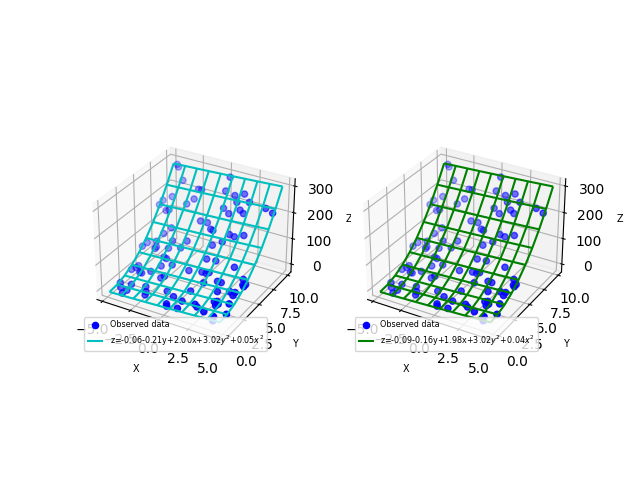
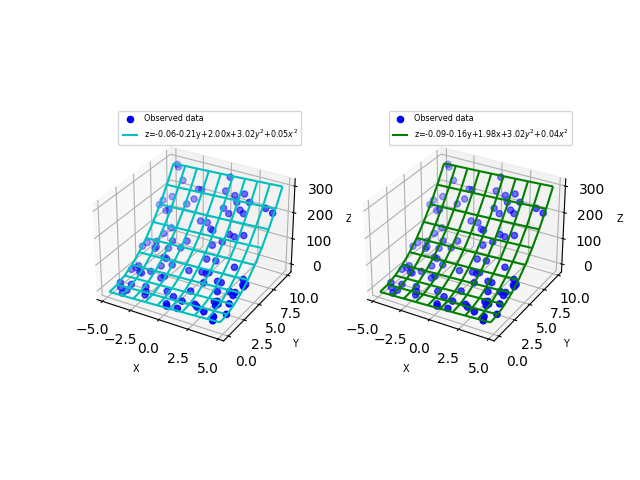
修正

diff --git a/ex3/s_iwashita/main.py b/ex3/s_iwashita/main.py
@@ -1,3 +1,4 @@
+"""Regression analysis using the least squares method."""
 import argparse
 
 import matplotlib.pyplot as plt
@@ -5,7 +6,7 @@ import numpy as np
 
 
 def lstsq(x, y, order: int, dimension: int, lamb: int):
-    """Least-squares method
+    """Least-squares method.
 
     Args:
         x (ndarray): Explanatory variables
@@ -32,7 +33,7 @@ def lstsq(x, y, order: int, dimension: int, lamb: int):
 
 
 def genplotdata(x, u, order, dimension):
-    """Generate plot data
+    """Generate plot data.
 
     Args:
         x (ndarray): Explanatory variables
@@ -62,8 +63,8 @@ def genplotdata(x, u, order, dimension):
     return x_re, y_re, z_re
 
 
-def genlabel(u, order, dimension):
-    """Generate label
+def generate_equation(u, order, dimension):
+    """Generate label.
 
     Args:
         u (ndarray): Regression coefficient
@@ -101,6 +102,10 @@ def genlabel(u, order, dimension):
 
 
 def main():
+    """
+    Plot a scatter plot using the data in the csv file
+    and obtain the regression equation.
+    """
     parser = argparse.ArgumentParser(
         "Regression analysis using the least squares method"
     )
@@ -141,8 +146,8 @@ def main():
     # Generate data to plot
     x_re, y_re, z_re = genplotdata(x, u, order, dimension)
     x_rre, y_rre, z_rre = genplotdata(x, u_reg, order, dimension)
-    label = genlabel(u, order, dimension)
-    label_reg = genlabel(u_reg, order, dimension)
+    label = generate_equation(u, order, dimension)
+    label_reg = generate_equation(u_reg, order, dimension)
 
     # Plot data
     plt.figure()
@@ -163,16 +168,16 @@ def main():
         ax1.set_xlabel("X", size="x-small")
         ax1.set_ylabel("Y", size="x-small")
         ax1.set_zlabel("Z", size="x-small")
-        ax1.legend(fontsize="xx-small")
+        ax1.legend(bbox_to_anchor=(1, 1.1), fontsize="xx-small")
         ax2 = plt.subplot(122, projection="3d")
         ax2.scatter(x1, x2, y, c="b", label="Observed data")
         ax2.plot_wireframe(x_rre, y_rre, z_rre, color="g", label=label_reg)
         ax2.set_xlabel("X", size="x-small")
         ax2.set_ylabel("Y", size="x-small")
         ax2.set_zlabel("Z", size="x-small")
-        ax2.legend(fontsize="xx-small")
-    # plt.show()
+        ax2.legend(bbox_to_anchor=(1, 1.1), fontsize="xx-small")
     plt.savefig(figname)
+    plt.show()
 
 
 if __name__ == "__main__":
